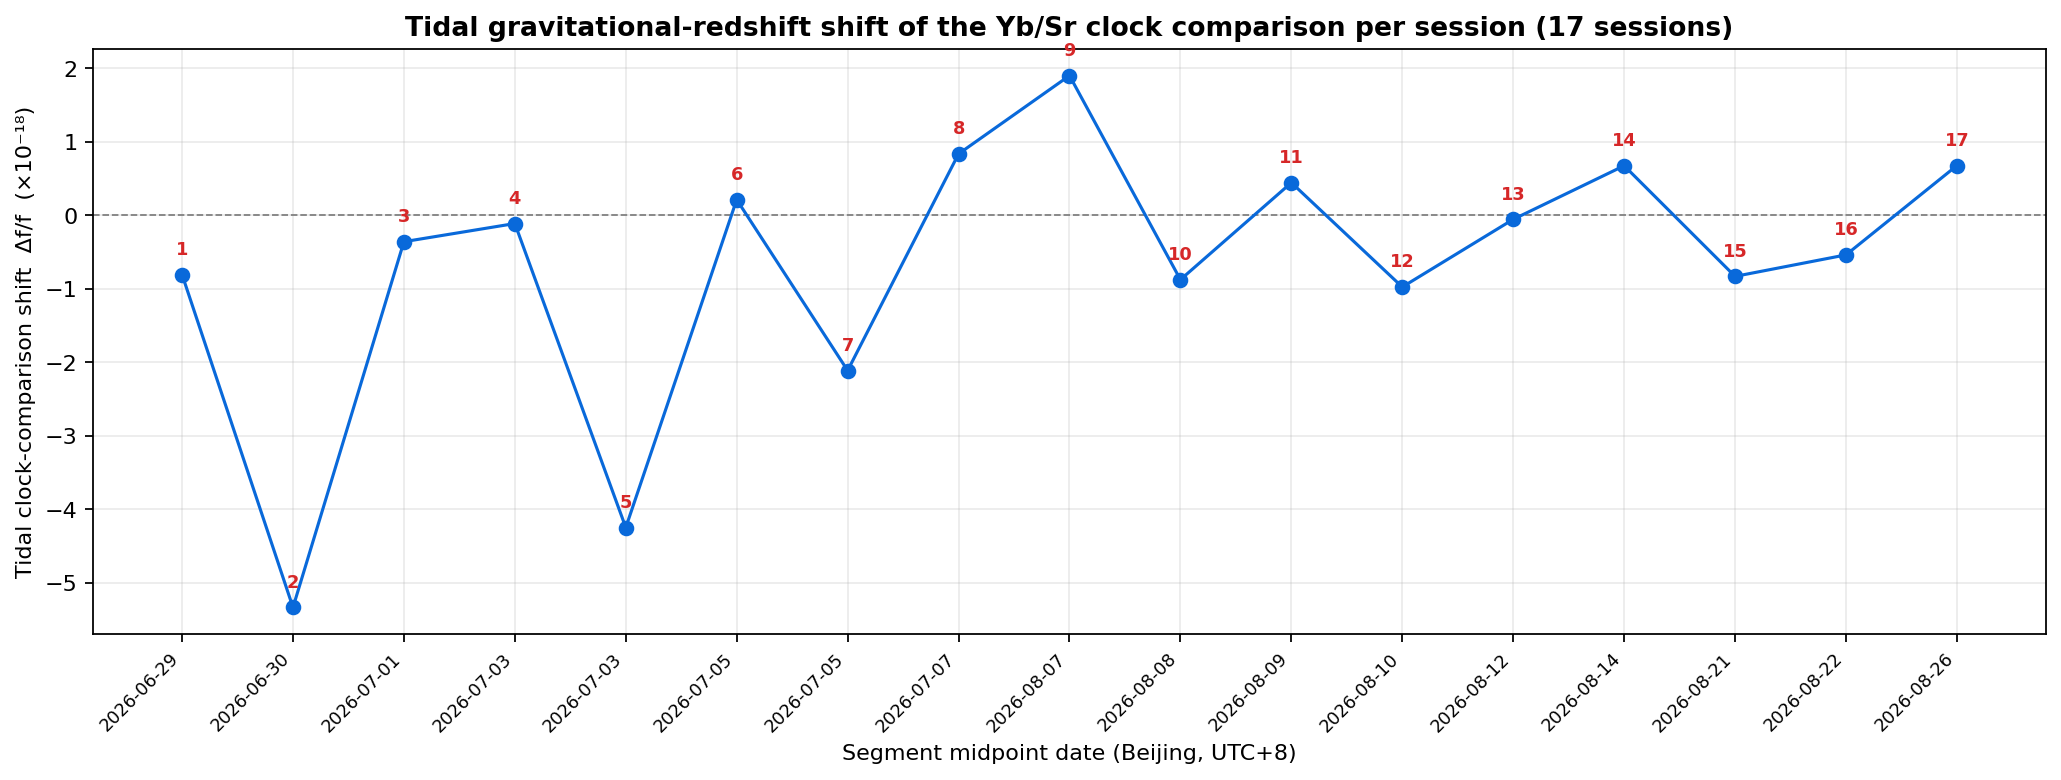
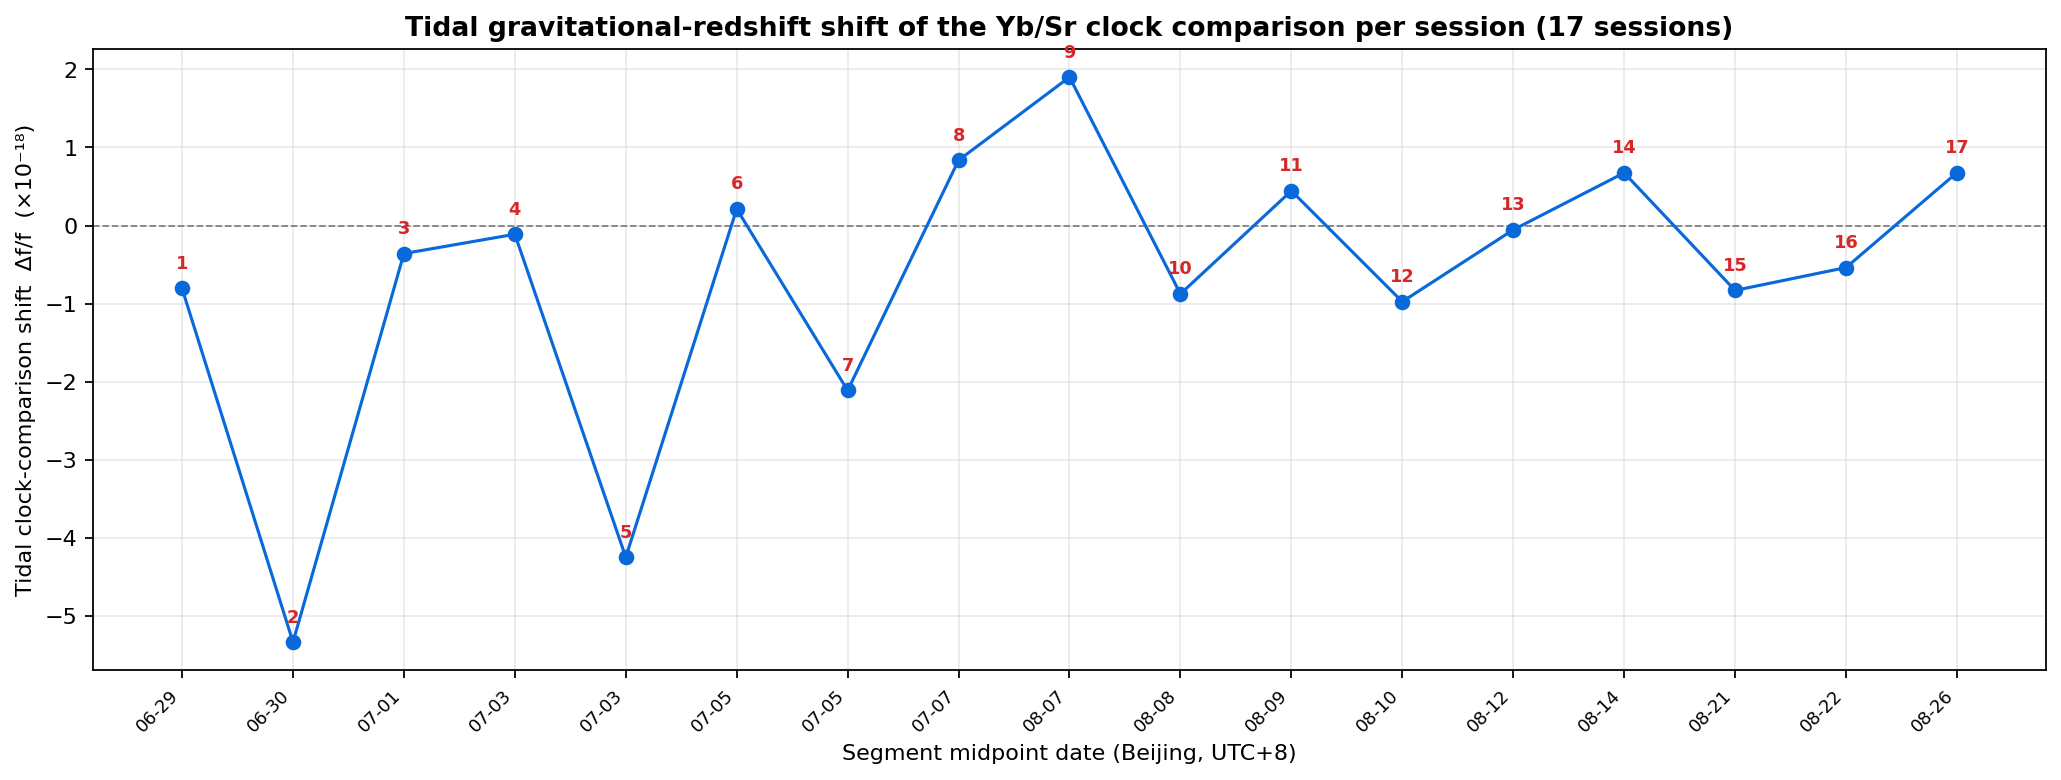
Add 17-segment ratio/tide conclusion summary; shorten tidal-shift plot tick labels
- clock/CONCLUSION_17.md: summarize the 17 jump-free segments' clock-comparison
  result (WLS Yb/Sr=1.2075070393433377213(23), chi2_red=1.70, Birge=1.30),
  tidal impact (Δf/f rms 4.3e-18, same order as excess scatter xi~2e-18), and
  correlation (|z|=5.91, A=-0.46, 14/17 negative)
- clock_tidal_shift.py: use MM-DD tick labels to avoid 17 full-date labels
  crowding the x-axis

diff --git a/clock/clock_tidal_shift.py b/clock/clock_tidal_shift.py
@@ -131,12 +131,10 @@ def main() -> int:
     frequency_shift = np.array([r["frequency_shift"] for r in records]) * 1e18
 
     # x 轴用等间距段索引，避免 7月→8月 约 31 天空档把前后段挤在两端、
-    # 使序号标注重叠。每段的实际日期标作刻度，保留时间信息。
+    # 使序号标注重叠。每段中点日期用「月-日」短格式标作刻度，避免 17 个
+    # 完整日期标签（YYYY-MM-DD）在横轴上挤成一团。
     seg_index = np.arange(1, len(records) + 1, dtype=float)
-    xtick_dates = [
-        np.datetime_as_string(m.astype("datetime64[s]"), unit="D")
-        for m in midpoints
-    ]
+    xtick_dates = [str(m)[5:10] for m in midpoints]
 
     fig, ax = plt.subplots(figsize=(13, 5))
     ax.axhline(0.0, color="gray", lw=0.8, ls="--")

diff --git a/clock/CONCLUSION_17.md b/clock/CONCLUSION_17.md
@@ -1,0 +1,87 @@
+# 17 段无跳点数据：钟比对结果与潮汐影响 — 总结
+
+> 按实验方 `潮汐修正后的比值计算.pdf` 的规则，对 17 段无跳点数据给出的钟比对
+> 结果与潮汐影响汇总。时间均为北京时间（UTC+8），潮汐数据为专业人士提供的
+> 30 秒「综合差」（UTC，方向武汉−上海 CAS−SHA）。
+
+## 1. 17 段无跳点数据（PDF 已注明）
+
+| 段 | 起（北京时） | 止（北京时） | 无跳点量(s) |
+|---:|---|---|---:|
+| 1 | 06-29 10:06:28 | 06-30 04:59:59 | 68012 |
+| 2 | 06-30 12:00:00 | 06-30 20:11:31 | 29491 |
+| 3 | 07-01 15:58:41 | 07-02 03:53:40 | 42900 |
+| 4 | 07-02 17:34:22 | 07-03 07:51:26 | 64286 |
+| 5 | 07-03 17:34:22 | 07-03 23:00:00 | 19538 |
+| 6 | 07-04 19:30:46 | 07-05 10:00:00 | 52154 |
+| 7 | 07-05 13:00:00 | 07-06 00:00:00 | 39599 |
+| 8 | 07-06 21:45:16 | 07-07 09:52:03 | 43608 |
+| 9 | 08-07 15:15:00 | 08-07 21:30:00 | 22500 |
+| 10 | 08-07 22:15:00 | 08-08 14:20:59 | 57959 |
+| 11 | 08-09 00:00:00 | 08-10 09:57:21 | 35841 |
+| 12 | 08-10 12:47:06 | 08-11 00:00:00 | 40374 |
+| 13 | 08-11 05:30:00 | 08-13 00:00:00 | 152999 |
+| 14 | 08-13 18:56:58 | 08-15 14:00:41 | 68624 |
+| 15 | 08-21 00:40:03 | 08-21 16:40:56 | 57654 |
+| 16 | 08-21 23:20:01 | 08-23 16:20:51 | 147651 |
+| 17 | 08-25 15:09:41 | 08-26 09:29:54 | 66014 |
+
+> 起止点筛选（每段端点与中心值距离须 < 峰峰值 1%）后有效点数 **1,009,022**，
+> 与本项目逐段提取的 trimmed N 之和一致。
+
+## 2. 钟比对结果（PDF，17 段）
+
+| 量 | 值 |
+|---|---|
+| N | **17** |
+| WLS Yb/Sr | **1.207 507 039 343 337 7213(23)** |
+| WLS 统计不确定度 u | 4.764×10⁻¹⁹ |
+| chi² (dof=16) | 27.24 |
+| chi²_red | 1.7026 |
+| p 值 | 0.0389 |
+| Birge ratio | 1.3048 |
+| Birge u | 6.216×10⁻¹⁹ |
+| M-P ξ | 1.6035×10⁻¹⁸（u=6.52×10⁻¹⁹）|
+| Bayesian ξ（后验均值）| 1.997×10⁻¹⁸（u_stat=0.750×10⁻¹⁸）|
+
+对比参考值 Yb/Sr = 1.2075070393433377230(37)（NIST，3.1×10⁻¹⁸）；本实验
+综 合不确定度（贝叶斯 + 系统项）≈ 1.90×10⁻¹⁸，与 NIST 参考值一致。
+
+> 逐段 y_i = R_i/R_ref − 1 的前 14 段由实验方 MATLAB 程序给出（低精度读数见
+> `correlation_analysis.py`）；第 15/16/17 段逐段 y_i 实验方未产出（其 Sr 钟
+> shift_a 标定值不在现有程序中）。
+
+## 3. 潮汐影响量（不修正，仅说明量级）
+
+专业 30 秒综合差 ΔW（武汉−上海）→ 引力红移 Δf/f = ΔW/c²：
+
+| 量 | 值 |
+|---|---|
+| ΔW std | 0.388 m²/s² |
+| ΔW 峰峰值 | 1.836 m²/s² |
+| **Δf/f rms** | **4.3×10⁻¹⁸** |
+| Δf/f 峰峰值 | 2.0×10⁻¹⁷ |
+| 17 段会话潮汐频差 | −5.34 ~ +1.90（×10⁻¹⁸）|
+
+潮汐 Δf/f rms ≈ 4.3×10⁻¹⁸ 与 PDF 的 excess scatter ξ≈2×10⁻¹⁸、待定高程项
+u_H≈1×10⁻¹⁸ 处于同一量级——潮汐是未显式建模的时变项，是 chi²_red = 1.70 > 1
+的物理来源之一。
+
+## 4. 相关性分析（潮汐 vs 拍频，17 段）
+
+**结论：潮汐引力红移以负方向、约一半幅度被一致检出。**
+
+| 检验 | 结果 |
+|---|---|
+| 负相关段数 | **14/17**（二项 p=0.0127）|
+| 符号无关 Stouffer \|z\| | **5.91**（p=3.4×10⁻⁹）|
+| Fisher 合并 | χ²=86.5 (df=34)，p=1.8×10⁻⁶ |
+| Fisher-z 加权 r | −0.129 |
+| 幅度比 A（精度加权）| **−0.46 ± 0.07**（6.5σ）|
+
+潮汐信号被拍频噪声淹没（1200-s 积分后噪声 ~1.7×10⁻¹⁷，比信号大 ~3.6 倍），
+单段多不显著，仅跨段合并能累加出符号一致的趋势。
+
+稳健性子集敏感性（符号无关 |z| 与 A）：
+全部 17 段 |z|=5.91 / 去组 9 |z|=5.87 / 仅 14 段 |z|=6.34 / 第一轮 |z|=4.77 /
+第二轮 |z|=3.63 —— 检测对段子集划分稳健。
